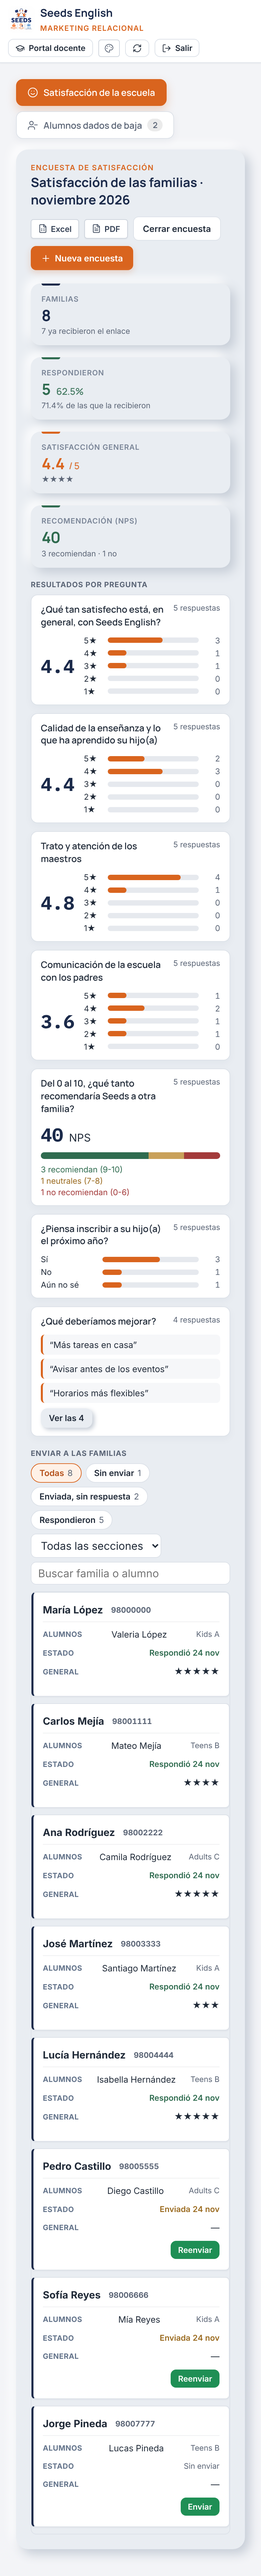
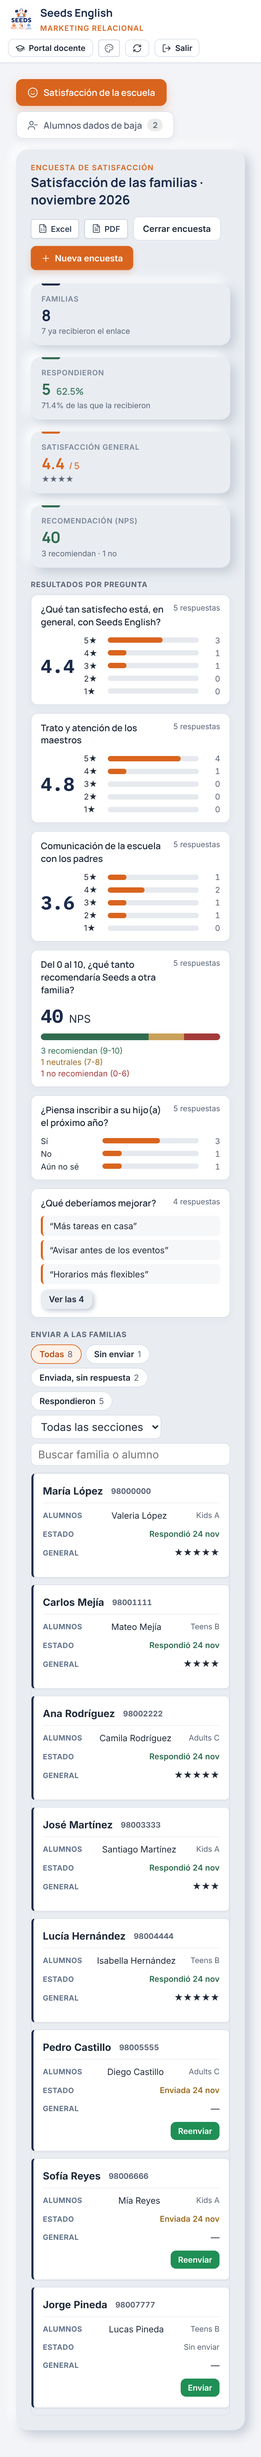
Encuesta de satisfacción: quitar calidad de la enseñanza y relación calidad-precio de las preguntas base
Claude-Session: https://claude.ai/code/session_01AxHPX21L8H8cCp28DDg5nG

diff --git a/src/marketing.jsx b/src/marketing.jsx
@@ -29,13 +29,11 @@ import "./marketing.css";
 // tipo: estrellas (1 a 5) · nps (0 a 10) · opcion (una de varias) · abierta (texto)
 export const PREGUNTAS_BASE = [
   { id: "general", tipo: "estrellas", texto: "¿Qué tan satisfecho está, en general, con Seeds English?", obligatoria: true },
-  { id: "ensenanza", tipo: "estrellas", texto: "Calidad de la enseñanza y lo que ha aprendido su hijo(a)" },
   { id: "docentes", tipo: "estrellas", texto: "Trato y atención de los maestros" },
   { id: "comunicacion", tipo: "estrellas", texto: "Comunicación de la escuela con los padres" },
   { id: "administracion", tipo: "estrellas", texto: "Atención en administración (secretaría y pagos)" },
   { id: "instalaciones", tipo: "estrellas", texto: "Limpieza, seguridad e instalaciones" },
   { id: "actividades", tipo: "estrellas", texto: "Actividades y eventos de la escuela" },
-  { id: "precio", tipo: "estrellas", texto: "Relación entre lo que paga y lo que recibe" },
   { id: "recomendaria", tipo: "nps", texto: "Del 0 al 10, ¿qué tanto recomendaría Seeds a otra familia?" },
   { id: "continuara", tipo: "opcion", texto: "¿Piensa inscribir a su hijo(a) el próximo año?", opciones: ["Sí", "No", "Aún no sé"] },
   { id: "medio", tipo: "opcion", texto: "¿Por qué medio prefiere recibir avisos?", opciones: ["WhatsApp", "Llamada", "Correo", "Agenda del alumno"] },
